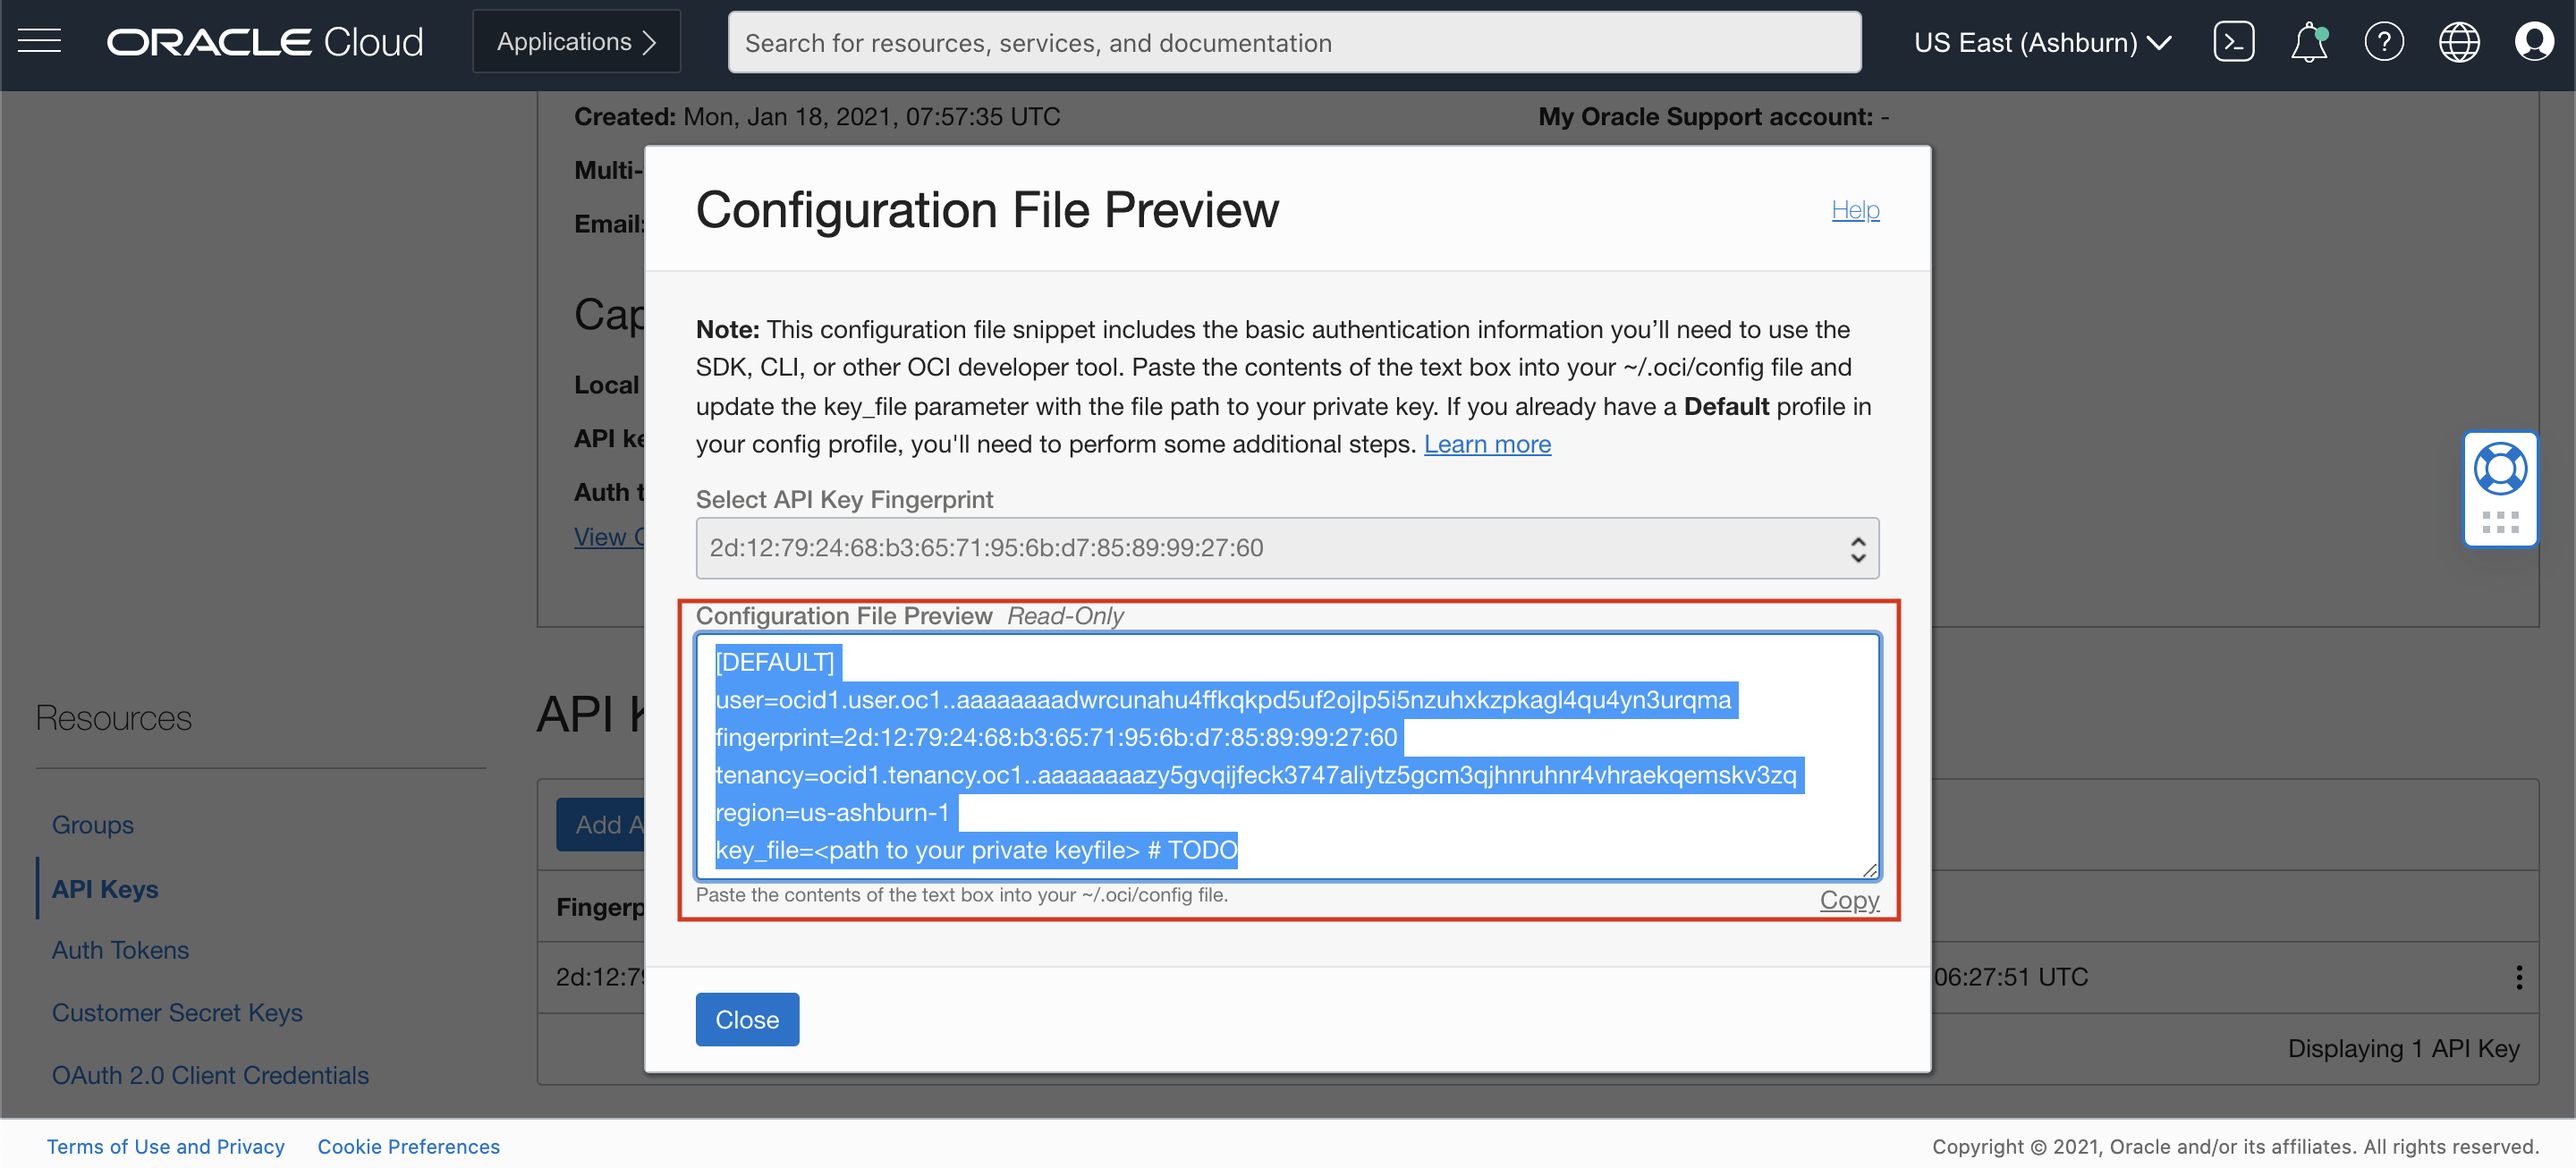
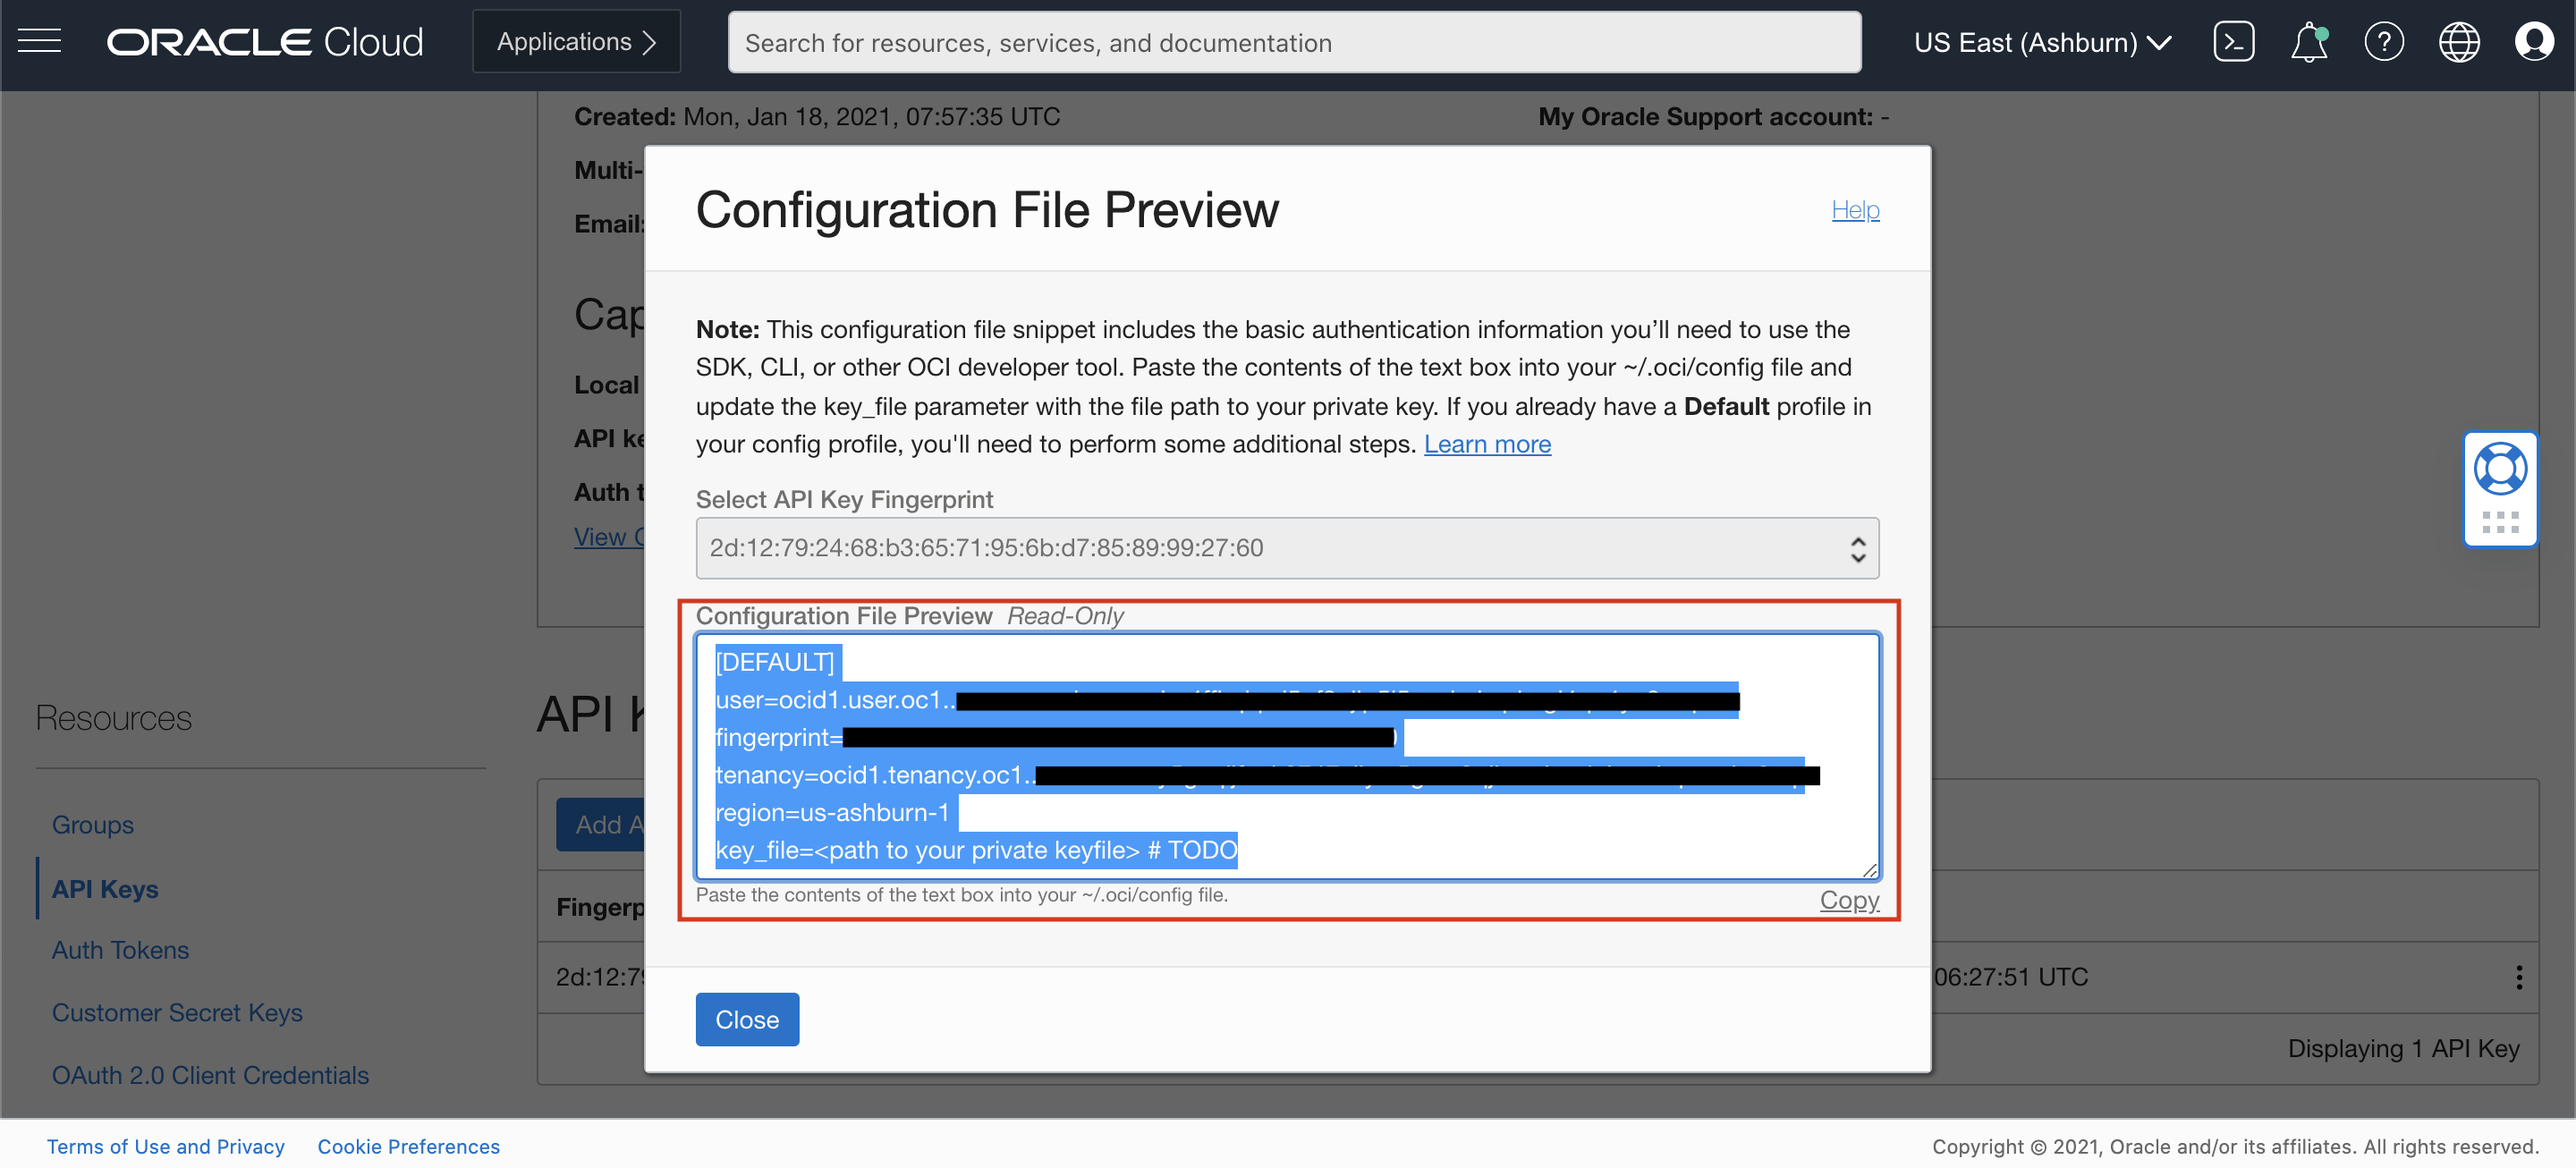
removing sensitive info

Changed region(s): [[0.3125, 0.5819, 0.7188, 0.6738]]

diff --git a/oci-library/oci-hol/oci-artificial-intelligence/ai-speech/transcribe-audio/transcribe-audio.md b/oci-library/oci-hol/oci-artificial-intelligence/ai-speech/transcribe-audio/transcribe-audio.md
@@ -106,10 +106,10 @@ This page is split into three sections
     ![](./images/Basic_information_page.png " ")
 
 Click "Next" to continue to file selection
-   
+
 
 ### 4: Select Which File(s) From Object Storage to Transcribe in this Job
-
+Use "Show wav files" toggle to filter input bucket for .wav files only
 Select one or more files to transcribe from the specified bucket in object storage then click "Submit"
     ![](./images/select-files.png " ")
 
